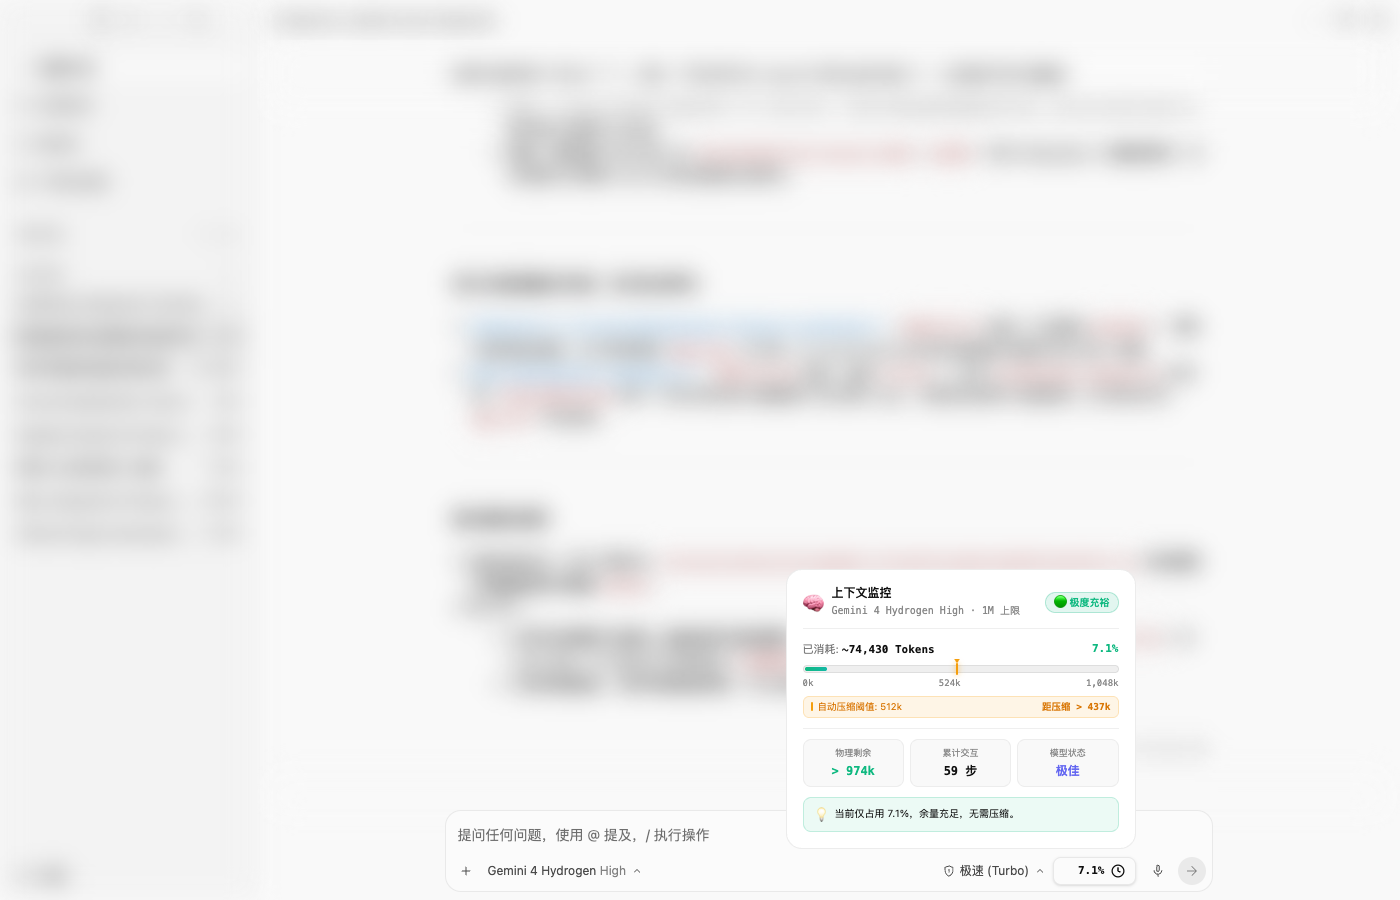
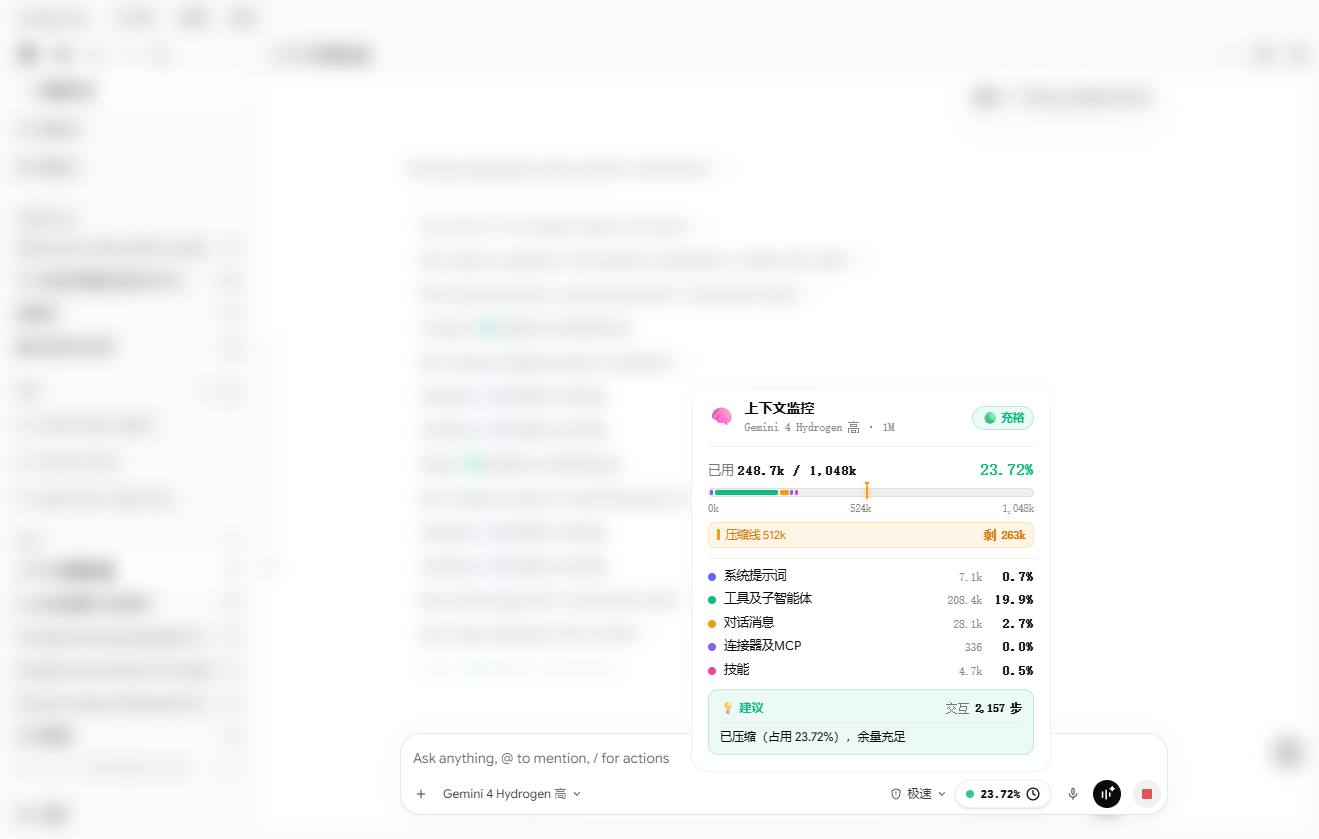
docs(release): update README, preview screenshots and bump version to v1.5.0

diff --git a/README.md b/README.md
@@ -2,7 +2,7 @@
 ### Google Antigravity 上下文监控插件
 
 <p align="center">
-  <img src="https://img.shields.io/badge/Version-v1.4.0-purple?style=flat-square" alt="Version v1.4.0" />
+  <img src="https://img.shields.io/badge/Version-v1.5.0-purple?style=flat-square" alt="Version v1.5.0" />
   <img src="https://img.shields.io/badge/Antigravity-2.0%20Desktop-blue?style=flat-square" alt="Antigravity 2.0" />
   <img src="https://img.shields.io/badge/Language-Bilingual%20(ZH%20%7C%20EN)-emerald?style=flat-square" alt="Bilingual" />
   <img src="https://img.shields.io/badge/Python-3.9+-yellow?style=flat-square" alt="Python 3.9+" />
@@ -29,12 +29,11 @@ A lightweight, real-time context window and token usage monitor custom-built for
 ### 🌟 Key Features
 
 - **⚡ Native Input Bar Integration**: Injects seamlessly into the bottom input toolbar without modifying any Antigravity application binaries.
-- **🎨 350px Floating Dashboard (Hover to Expand)**:
-  - **Dynamic Model & Limit Detection**: Reads active model in real-time (e.g., `Gemini 4 Hydrogen High · 1M Max`, `Claude Opus 5.5 · 1M Max`, `GPT-OSS 120B · 128k Max`) and adapts the progress bar scale automatically.
-  - **Auto-Compact Threshold Marker**: Displays an amber marker on the progress bar showing Antigravity's actual Checkpointer auto-compaction trigger (`512k` / `256k` / `128k` / `80k`) and live remaining headroom before compaction.
-  - **Color-Coded Status Pulse**: 🟢 Optimal ｜ 🟡 Near Auto-Compact ｜ 🔴 Compact Soon.
-  - **3 Metric Blocks**: Physical remaining space, interaction steps, and model status.
-  - **Context Advice**: Timely guidance for summarizing or running `/compact`, plus in-chat Markdown cards via `generate_monitor.py` with `│` threshold markers.
+- **🎨 360px Floating Dashboard (Hover to Expand)**:
+  - **5-Category Real-Time Breakdown & Segmented Bar**: Visualizes exact token consumption across **System Prompt** (`#6366f1`), **Tools & Subagents** (`#10b981`), **Messages** (`#f59e0b`), **Connectors & MCP** (`#8b5cf6`), and **Skills** (`#ec4899`), calibrated against active transcript usage (`transcript_full.jsonl` + local rules/MCP/skill metadata).
+  - **Dynamic Model & Limit Detection**: Reads active model in real-time (e.g., `Gemini 4 Hydrogen High · 1M`, `Claude Opus 5.5 · 1M`, `GPT-OSS 120B · 128k`) and adapts the progress bar scale automatically.
+  - **Auto-Compact Threshold Marker**: Displays an amber marker pin on the segmented progress bar showing Antigravity's actual Checkpointer auto-compaction trigger (`512k` / `256k` / `128k` / `80k`) and live remaining headroom before compaction.
+  - **Streamlined Footer & Clear Typography**: Combines **Steps** count and color-coded compression advice (`🟢 Optimal` / `🟡 Near Limit` / `🔴 Compact Soon`) into a unified footer card with enlarged, high-contrast typography, plus in-chat Markdown cards via `generate_monitor.py` featuring category breakdowns and `│` threshold markers.
 
 #### Supported Model Limits & Auto-Compact Thresholds
 
@@ -83,12 +82,11 @@ A lightweight, real-time context window and token usage monitor custom-built for
 ### 🌟 核心功能
 
 - **⚡ 输入框原生嵌入**：无缝融入 Antigravity 2.0 底部工具栏（麦克风图标正前方），丝滑契合原生暗色与明色主题。
-- **🎨 350px 悬浮大卡片（鼠标悬停即弹）**：
-  - **动态模型与真实上限感知**：实时捕获当前选用的模型（如 `Gemini 4 Hydrogen High · 1M 上限`、`Claude Opus 5.5 · 1M 上限`、`GPT-OSS 120B · 128k 上限`），自动切换刻度尺与上限。
-  - **自动压缩阈值标线**：在进度条上直观标出 Antigravity 实际的 Checkpointer 自动压缩触发线（如 `512k` / `256k` / `128k` / `80k`），并实时提示“距触发压缩还剩多少空间”。
-  - **三色呼吸警示灯**：🟢 极度充裕 ｜ 🟡 接近压缩线 ｜ 🔴 即将压缩。
-  - **三核心指标网格**：物理剩余空间、累计交互步数、模型状态。
-  - **阶段健康建议**：精准的阶段性总结与 `/compact` 压缩提示，同时支持通过对话 Skill 输出带 `│` 压缩标线的 Markdown 进度条卡片。
+- **🎨 360px 悬浮大卡片（鼠标悬停即弹）**：
+  - **五维上下文分类与分段彩色进度条**：将当前上下文实时拆解为 **系统提示词** (`#6366f1`)、**工具及子智能体** (`#10b981`)、**对话消息** (`#f59e0b`)、**连接器及MCP** (`#8b5cf6`) 与 **技能** (`#ec4899`) 五大类，结合 `transcript_full.jsonl` 与本地规则/MCP/技能元数据精准校准占比。
+  - **动态模型与真实上限感知**：实时捕获当前选用的模型（如 `Gemini 4 Hydrogen 高 · 1M`、`Claude Opus 5.5 · 1M`、`GPT-OSS 120B · 128k`），自动切换刻度尺与上限。
+  - **自动压缩阈值标线**：在分段进度条上直观标出 Antigravity 实际的 Checkpointer 自动压缩触发线（如 `512k` / `256k` / `128k` / `80k`），并实时提示压缩线位置与剩余余量。
+  - **精简融合底栏与放大字号**：将 **交互步数** 与三色动态 **压缩建议**（🟢 充裕 ｜ 🟡 接近压缩 ｜ 🔴 即将压缩）融合为同一底栏卡片，全面精简文案并放大字号；对话内 Markdown 卡片同样支持五维分类占比与 `│` 压缩标线。
 
 #### 支持模型窗口与自动压缩阈值对照
 
@@ -140,6 +138,7 @@ antigravity-context-monitor/
 │   └── context-monitor/
 │       ├── SKILL.md         # Antigravity 技能元数据
 │       └── scripts/
+│           ├── context_breakdown.py # 五维上下文拆解与日志精准解析模块
 │           ├── daemon_sync.py       # 后台热探测、动态计算与 DOM 驱动引擎
 │           ├── generate_monitor.py  # 会话容量分析与 Markdown 卡片生成器
 │           └── inject_gauge.py      # CDP 前端组件注入脚本
